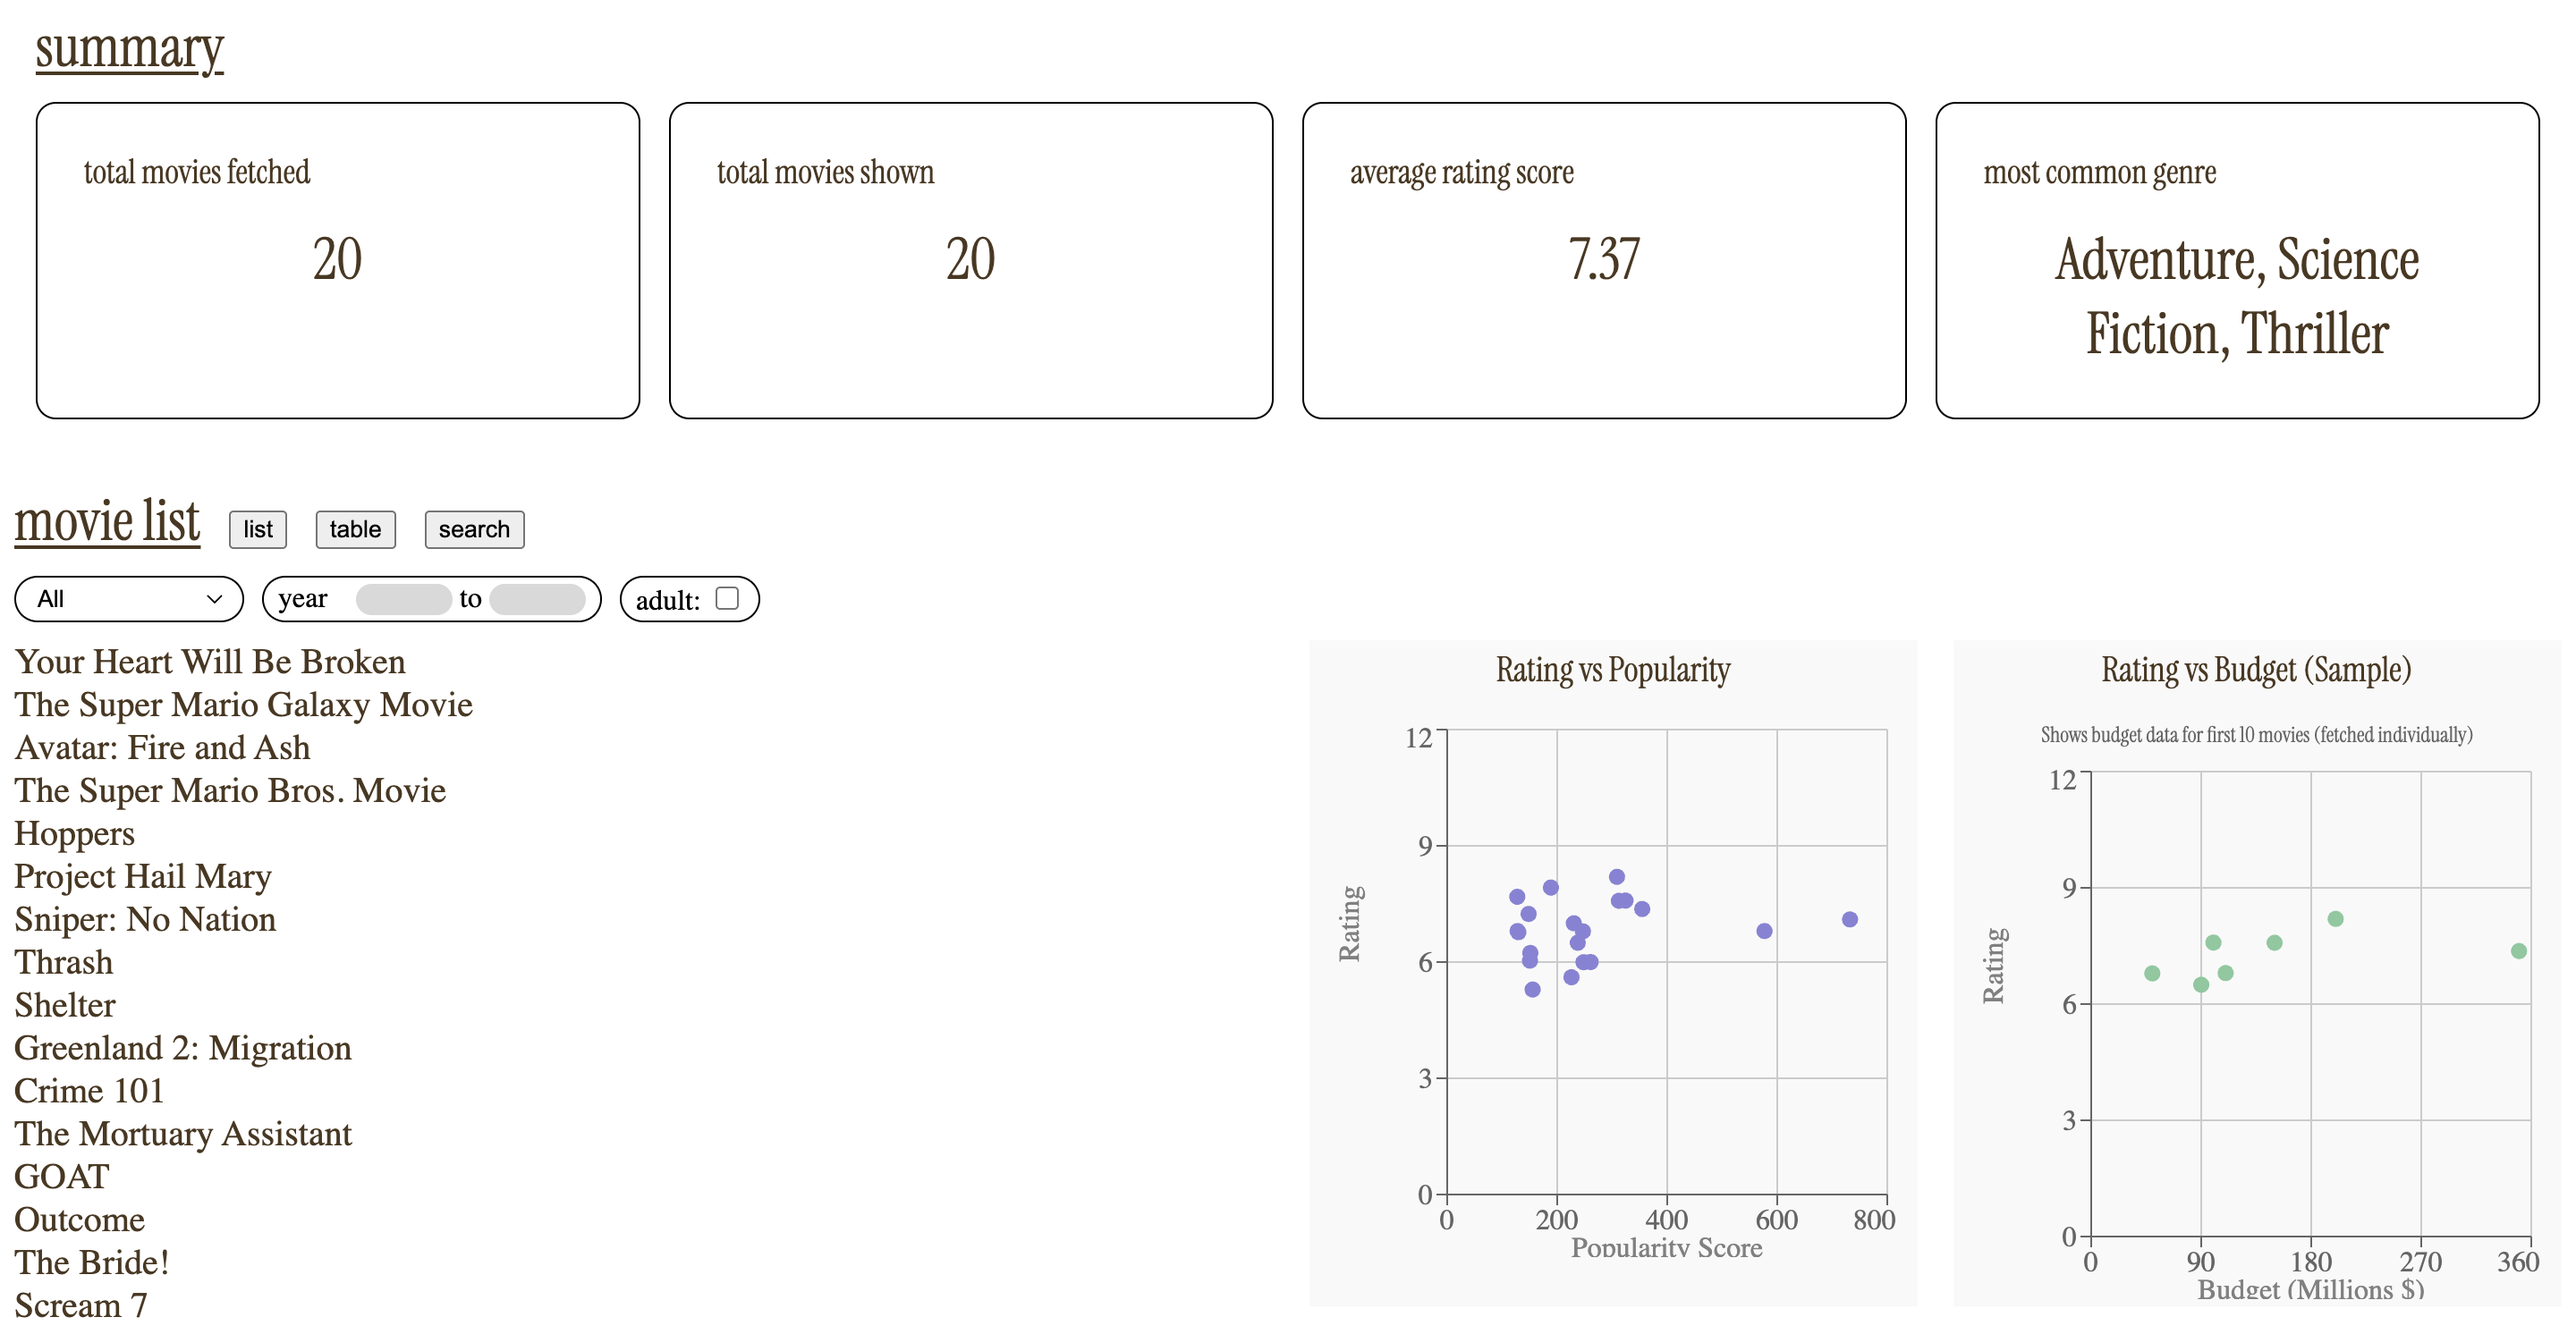
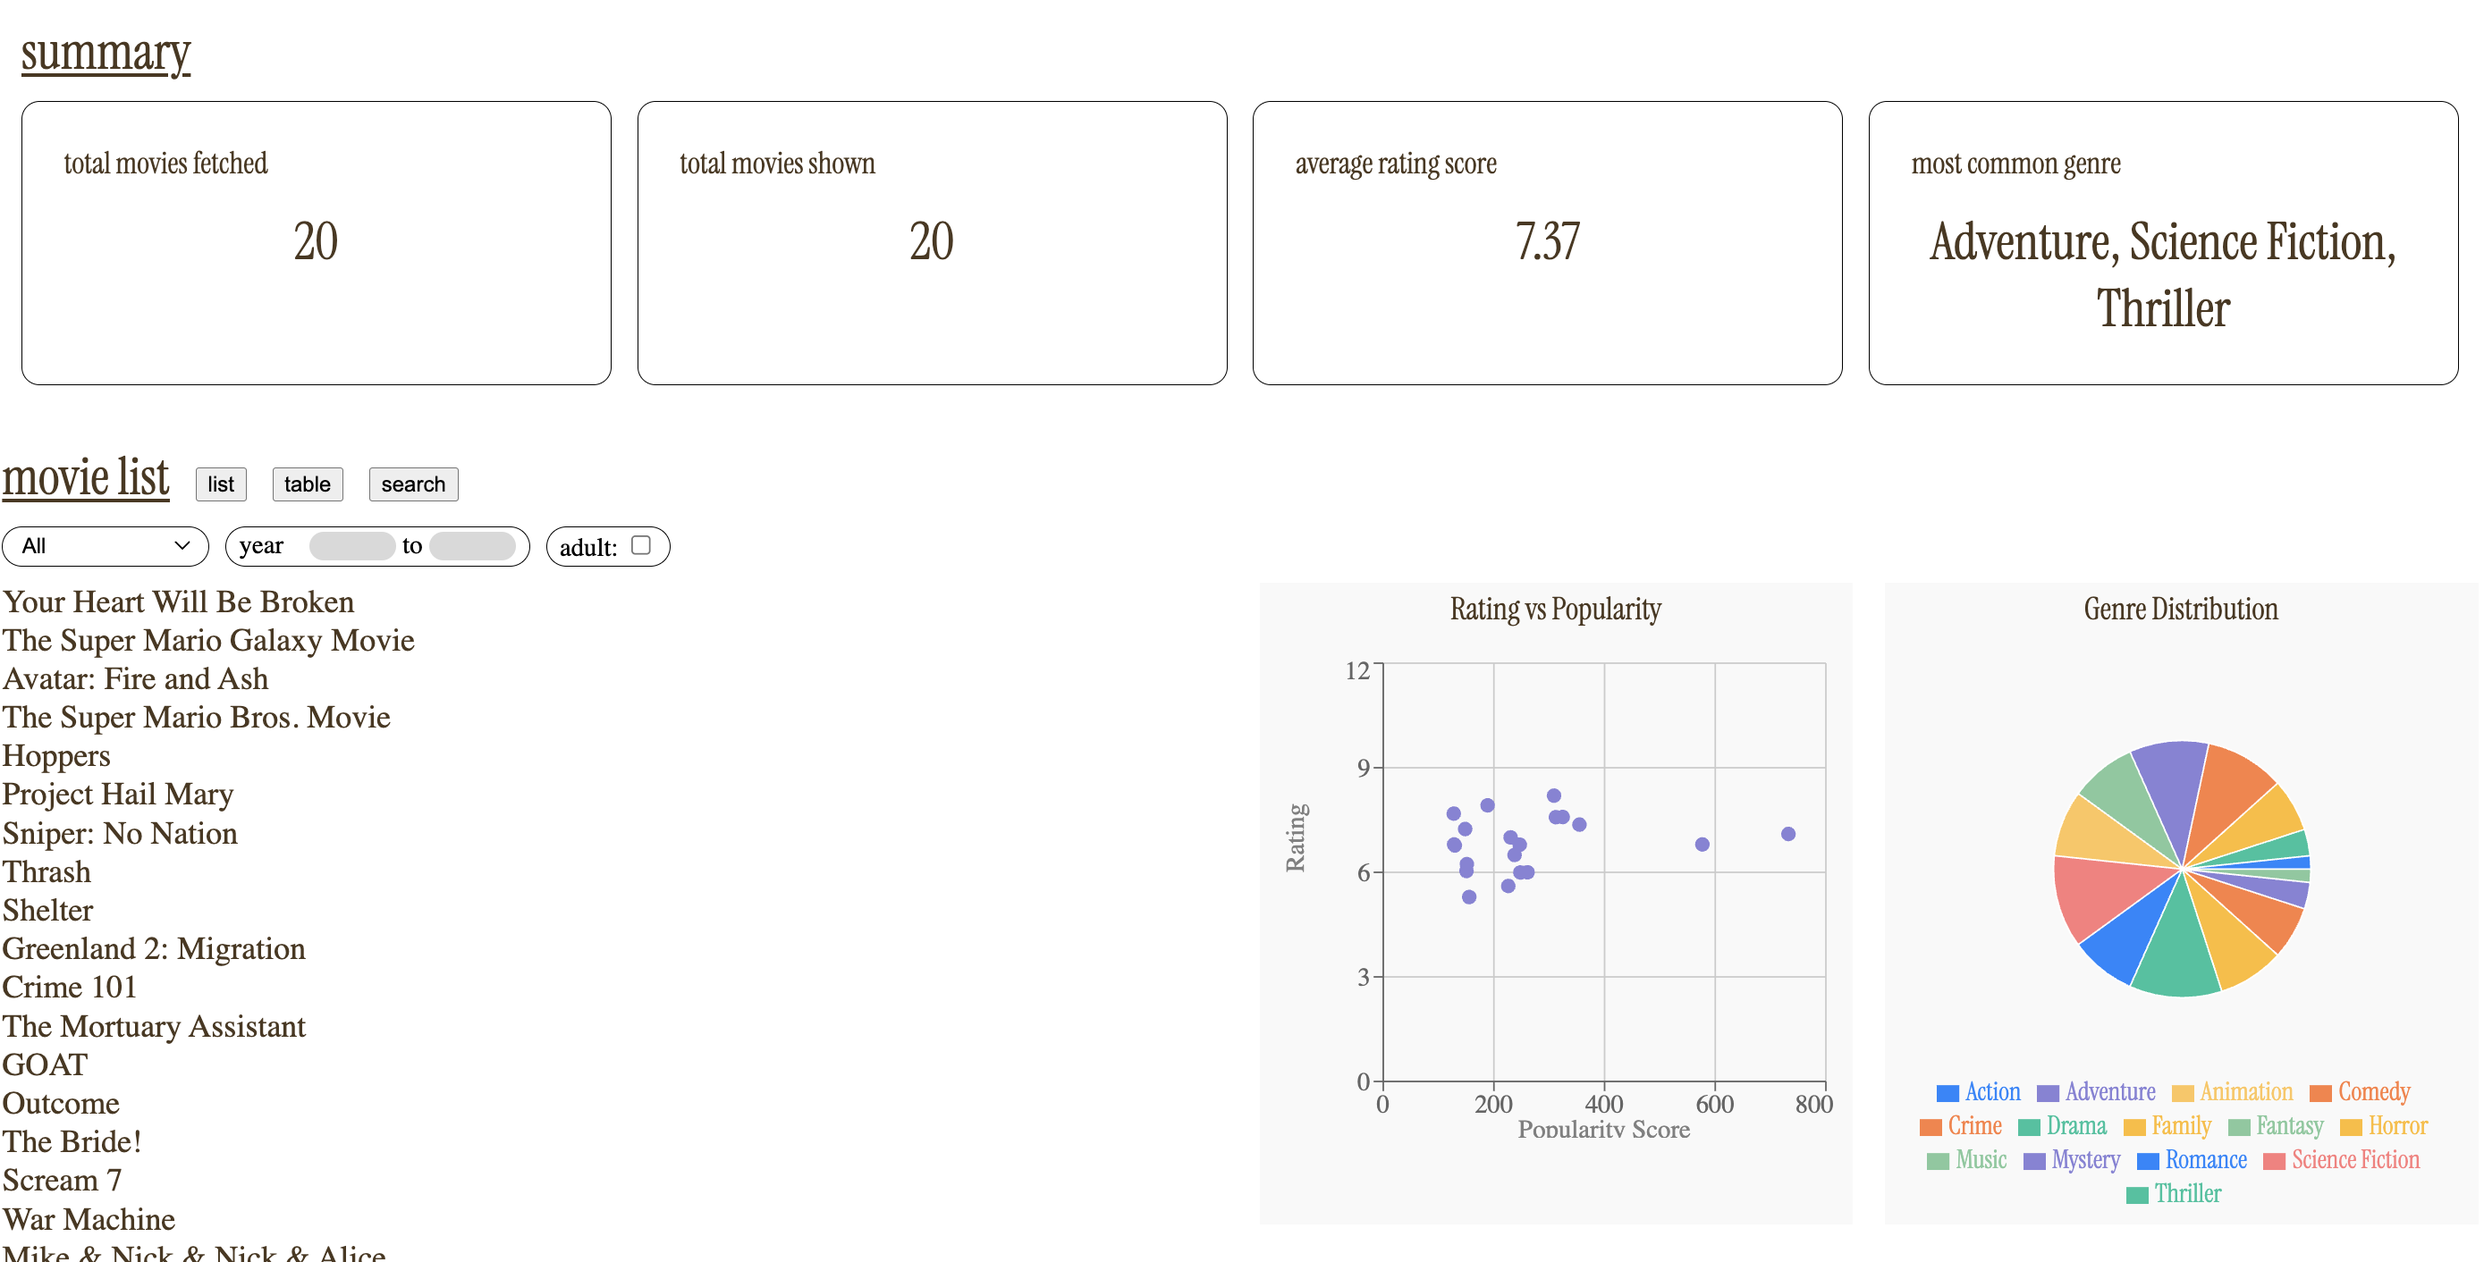
modified hardcoded to dynamic values

diff --git a/src/components/Charts.jsx b/src/components/Charts.jsx
@@ -100,38 +100,6 @@ export default function Charts({ movies, genreList }) {
       </div>
 
       <div className="chart-item">
-        <h3>Rating vs Budget (Sample)</h3>
-        <p style={{fontSize: '12px', color: '#666', marginBottom: '8px'}}>
-          Shows budget data for first 10 movies (fetched individually)
-        </p>
-        <ResponsiveContainer width="100%" height={300}>
-          <ScatterChart data={ratingBudgetData}>
-            <CartesianGrid />
-            <XAxis
-              type="number"
-              dataKey="budget"
-              name="Budget (M$)"
-              label={{ value: 'Budget (Millions $)', position: 'insideBottom', offset: -5 }}
-            />
-            <YAxis
-              type="number"
-              dataKey="rating"
-              name="Rating"
-              label={{ value: 'Rating', angle: -90, position: 'insideLeft' }}
-            />
-            <Tooltip
-              formatter={(value, name) => [
-                name === 'budget' ? `$${value}M` : value,
-                name === 'budget' ? 'Budget' : 'Rating'
-              ]}
-              labelFormatter={(label, payload) => payload?.[0]?.payload?.title || ''}
-            />
-            <Scatter dataKey="rating" fill="#82ca9d" />
-          </ScatterChart>
-        </ResponsiveContainer>
-      </div>
-
-      <div className="chart-item">
         <h3>Genre Distribution</h3>
         <ResponsiveContainer width="100%" height={350}>
           <PieChart>
